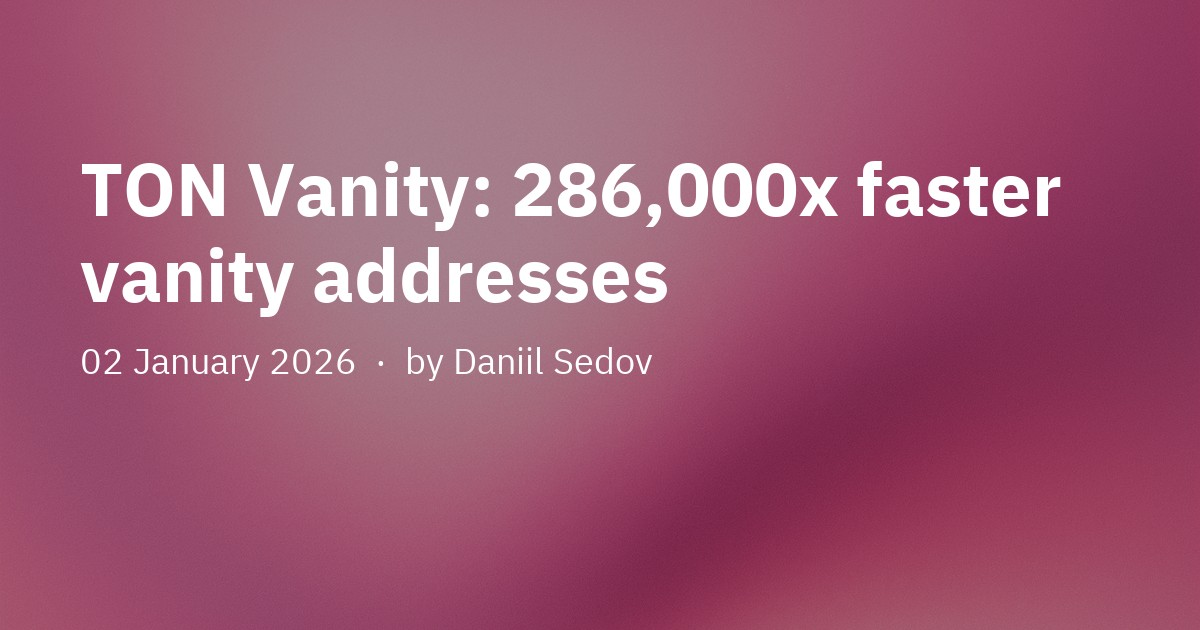
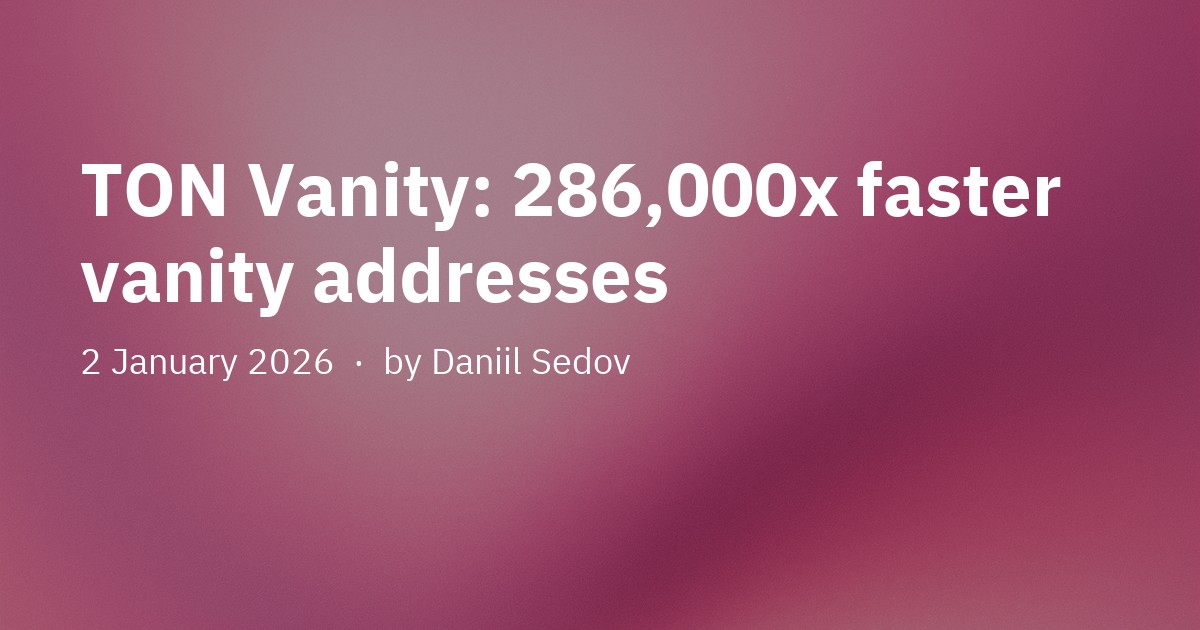
fix: preview date

Changed region(s): [[0.0617, 0.5429, 0.555, 0.6032]]

diff --git a/generate_blog.py b/generate_blog.py
@@ -141,7 +141,7 @@ def generate_preview(title: str, date_str: str, output_path: pathlib.Path, bg_pa
     """Generate preview image for a blog post."""
     # Format footer
     date = datetime.strptime(date_str, "%Y-%m-%d")
-    footer = f"{date.strftime('%d %B %Y')}  ·  by Daniil Sedov"
+    footer = f"{date.day} {date.strftime('%B %Y')}  ·  by Daniil Sedov"
     
     # Build background
     bg_full_path = None
